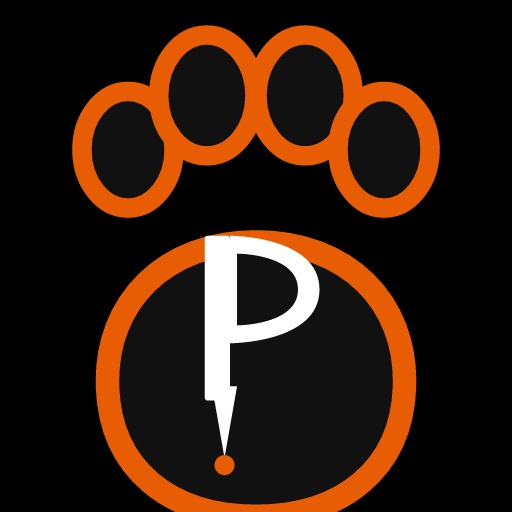
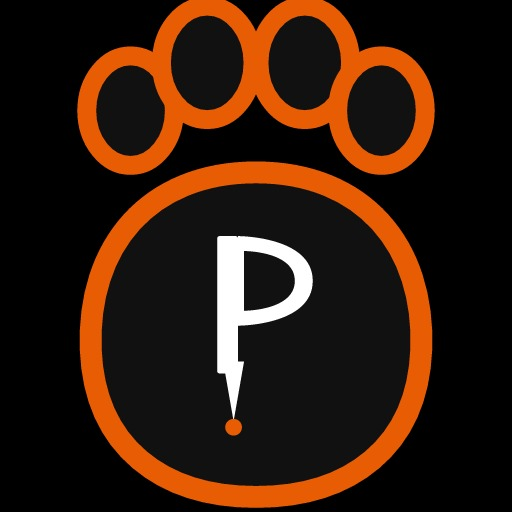
Give the Pins Pets P more room inside a larger paw pad

Changed region(s): [[0.125, 0.0, 0.875, 1.0]]

diff --git a/src/components/Brand.tsx b/src/components/Brand.tsx
@@ -18,21 +18,21 @@ function PinsLetter() {
 
 export function PinsPetsLogoIcon({ size = 36 }: { size?: number }) {
   return (
-    <svg width={size} height={size} viewBox="0 0 40 48" fill="none" aria-hidden="true">
-      <ellipse cx="7.5" cy="12.4" rx="4.5" ry="5.7" fill="#111" stroke="#E85D04" strokeWidth="1.9" />
-      <ellipse cx="15.2" cy="7.1" rx="4.7" ry="5.9" fill="#111" stroke="#E85D04" strokeWidth="1.9" />
-      <ellipse cx="24.8" cy="7.1" rx="4.7" ry="5.9" fill="#111" stroke="#E85D04" strokeWidth="1.9" />
-      <ellipse cx="32.5" cy="12.4" rx="4.5" ry="5.7" fill="#111" stroke="#E85D04" strokeWidth="1.9" />
+    <svg width={size} height={size} viewBox="0 0 40 50" fill="none" aria-hidden="true">
+      <ellipse cx="7.4" cy="10.4" rx="4.4" ry="5.5" fill="#111" stroke="#E85D04" strokeWidth="1.9" />
+      <ellipse cx="15.1" cy="5.6" rx="4.6" ry="5.7" fill="#111" stroke="#E85D04" strokeWidth="1.9" />
+      <ellipse cx="24.9" cy="5.6" rx="4.6" ry="5.7" fill="#111" stroke="#E85D04" strokeWidth="1.9" />
+      <ellipse cx="32.6" cy="10.4" rx="4.4" ry="5.5" fill="#111" stroke="#E85D04" strokeWidth="1.9" />
 
       <path
-        d="M20 21.4C11.2 21.4 5.2 27.2 5.5 35.6C5.8 43.6 11.6 48.2 20 48.2C28.4 48.2 34.2 43.6 34.5 35.6C34.8 27.2 28.8 21.4 20 21.4Z"
+        d="M20 16.6C9.2 16.6 3.0 24.0 3.4 34.4C3.8 44.2 10.6 49.2 20 49.2C29.4 49.2 36.2 44.2 36.6 34.4C37.0 24.0 30.8 16.6 20 16.6Z"
         fill="#111"
         stroke="#E85D04"
-        strokeWidth="2.3"
+        strokeWidth="2.2"
         strokeLinejoin="round"
       />
 
-      <g transform="translate(6.6, 13.1) scale(0.70)">
+      <g transform="translate(8.9, 16.4) scale(0.60)">
         <PinsLetter />
       </g>
     </svg>
